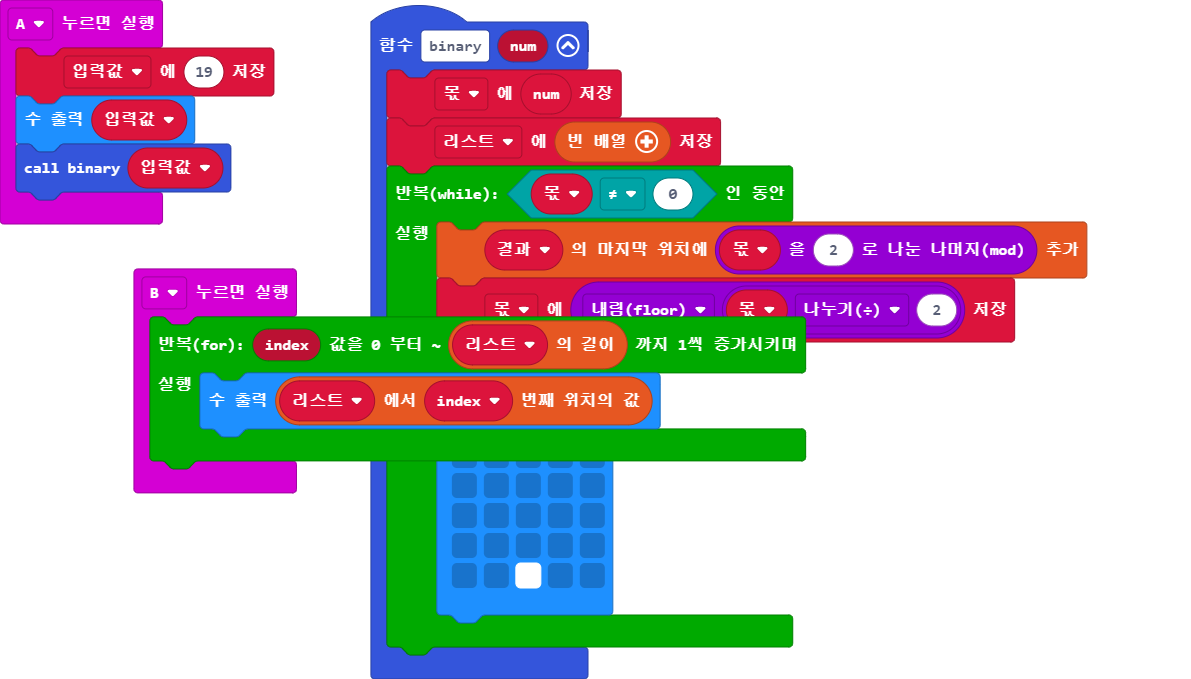
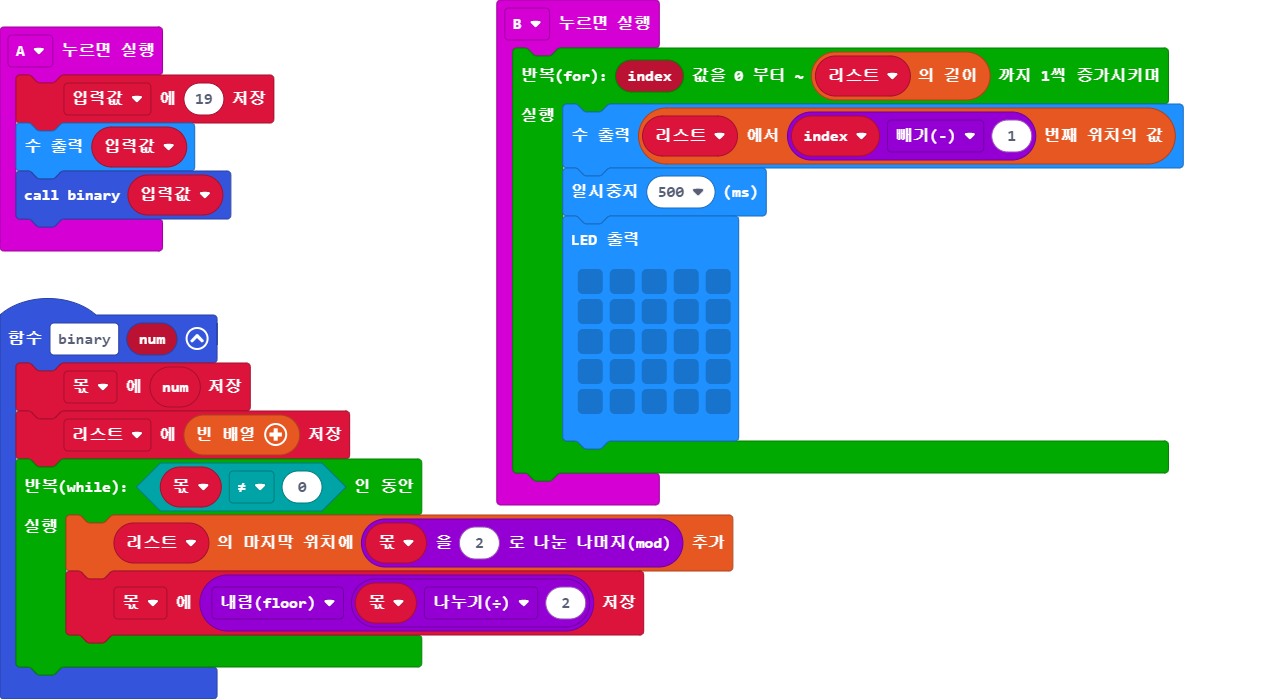
Update main.blocks, main.ts, main.py

diff --git a/main.ts b/main.ts
@@ -1,21 +1,12 @@
-let 몫: number = []
+let 몫 = 0
 let 리스트: number[] = []
-let 입력값: number = []
+let 입력값 = 0
 function binary (num: number) {
     몫 = num
     리스트 = []
     while (몫 != 0) {
-        let 결과: number[] = []
-        결과.push(몫 % 2)
+        리스트.push(몫 % 2)
         몫 = Math.floor(몫 / 2)
-        basic.pause(500)
-        basic.showLeds(`
-            . . . . .
-            . . . . .
-            . . . . .
-            . . . . .
-            . . # . .
-            `)
     }
 }
 input.onButtonPressed(Button.A, function () {
@@ -25,6 +16,14 @@ input.onButtonPressed(Button.A, function () {
 })
 input.onButtonPressed(Button.B, function () {
     for (let index = 0; index <= 리스트.length; index++) {
-        basic.showNumber(리스트[index])
+        basic.showNumber(리스트[index - 1])
+        basic.pause(500)
+        basic.showLeds(`
+            . . . . .
+            . . . . .
+            . . . . .
+            . . . . .
+            . . . . .
+            `)
     }
 })

diff --git a/main.py b/main.py
@@ -1,31 +1,32 @@
-let 몫 = 0
-let 이진수_결과 = 0
-let 리스트 = 0
-let 입력값 = 0
-function binary (num: number) {
+몫 = 0
+리스트: List[number] = []
+입력값 = 0
+def binary(num: number):
+    global 몫, 리스트
     몫 = num
-    while (몫 != 0) {
-        let 결과 = 0
-        이진수_결과 = 몫 % 2
+    리스트 = []
+    while 몫 != 0:
+        리스트.append(몫 % 2)
         몫 = Math.floor(몫 / 2)
-        basic.showNumber(결과)
-        basic.pause(500)
-        basic.showLeds(`
-            . . . . .
-            . . . . .
-            . . . . .
-            . . . . .
-            . . # . .
-            `)
-        리스트.push(이진수_결과)
-    }
-}
-input.onButtonPressed(Button.A, function () {
+
+def on_button_pressed_a():
+    global 입력값
     입력값 = 19
-    basic.showNumber(입력값)
+    basic.show_number(입력값)
     binary(입력값)
-    basic.showNumber(0)
-})
-input.onButtonPressed(Button.B, function () {
-    basic.showNumber(리스트)
-})
+input.on_button_pressed(Button.A, on_button_pressed_a)
+
+def on_button_pressed_b():
+    index = 0
+    while index <= len(리스트):
+        basic.show_number(리스트[index - 1])
+        basic.pause(500)
+        basic.show_leds("""
+            . . . . .
+            . . . . .
+            . . . . .
+            . . . . .
+            . . . . .
+            """)
+        index += 1
+input.on_button_pressed(Button.B, on_button_pressed_b)
